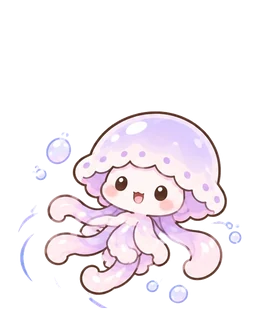
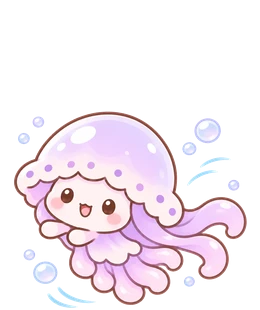
なかま：ゆらり（こども）の ふつう・ひる3・ひる4・たびだち の絵を直す（公開）
ふつう は人の足に見えた2本を ふわふわの あし に、ひる3・ひる4 は うで2本に、
たびだち は もじゃもじゃの あしを ふわふわに。4まいとも 長い うしろがみ をそろえる。
NK_IMG_VER を 17 に上げる。

Changed region(s): [[0.0308, 0.3484, 0.9538, 1.0], [0.1231, 0.3774, 0.1846, 0.4065], [0.0615, 0.4355, 0.1231, 0.4645]]

diff --git a/index.html b/index.html
@@ -3838,7 +3838,7 @@ body.course .levels.lvsel .lv{padding:3px 2px;font-size:12px}
   const nkSp = id => NK_LIST.find(x=>x.id===id) || NK_LIST[0];
   // ちいさい だんかいは すこし おおきく みせる（そだって いる かんじは のこす）
   const NK_SCALE = [1.9, 1.5, 1.15, 1, 1, 1];
-  const NK_IMG_VER = "16";   // なかまの え を さしかえたら ばんごうを あげる（ふるい え が のこらない ように）
+  const NK_IMG_VER = "17";   // なかまの え を さしかえたら ばんごうを あげる（ふるい え が のこらない ように）
   const nkImgSrc = (id, stage, mood) => `nakama/${id}/${NK_STAGES[stage]}_${stage===0 && mood==="s" ? "n" : mood}.webp?v=${NK_IMG_VER}`;
   const dkDate = k => { const [y,m,d]=k.split("-").map(Number); return new Date(y, m-1, d); };
   const dkAdd = (k, n) => { const d=dkDate(k); d.setDate(d.getDate()+n); return dayKey(d); };

diff --git a/CHANGELOG.md b/CHANGELOG.md
@@ -11,6 +11,9 @@
 
 ## 2026-11-08
 
+### 修正（なかま）
+- **14:43** ゆらり（こども）の 絵を 4まい 直しました。ふつう は、人の あしの ように 見えた 2本を ふわふわの あし に。ひる3（あわ）と ひる4（キラキラ）は、うで 2本 ある 絵に。たびだち は、もじゃもじゃ して いた あしを ふわふわ に。4まい とも、ゆらり らしい 長い うしろがみ を そろえました。
+
 ### 変更（使い方の案内）
 - **14:13** 「あんないを おわる」ボタンを、パソコン など 広い 画面では ころ の すぐ 右に 出す ように しました（画面の 右上 だと アプリから 遠くて 見つけにくかったため）。スマホ では 今まで どおり 右上です。
 
